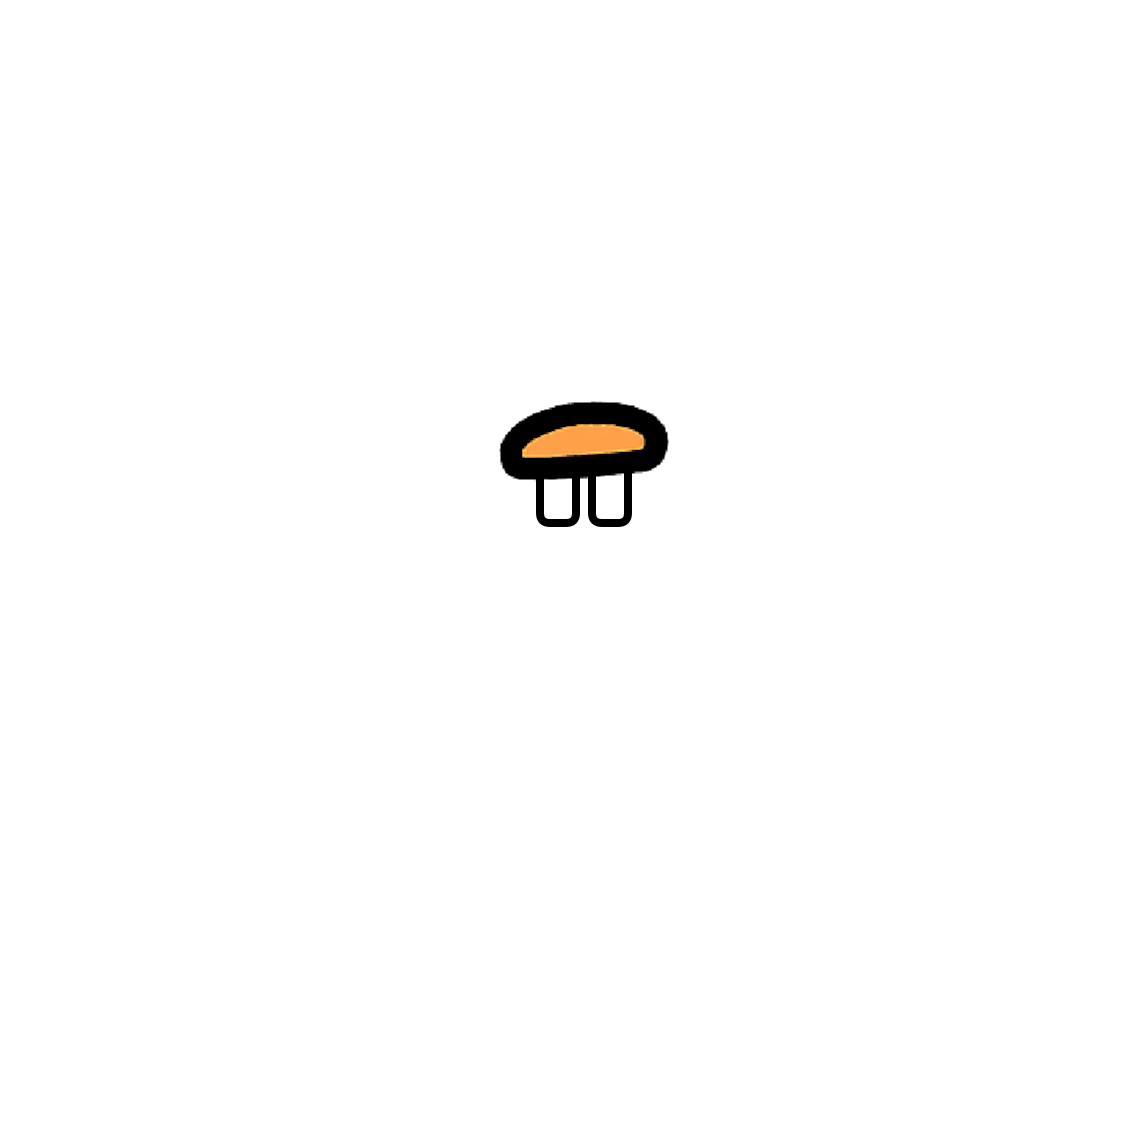
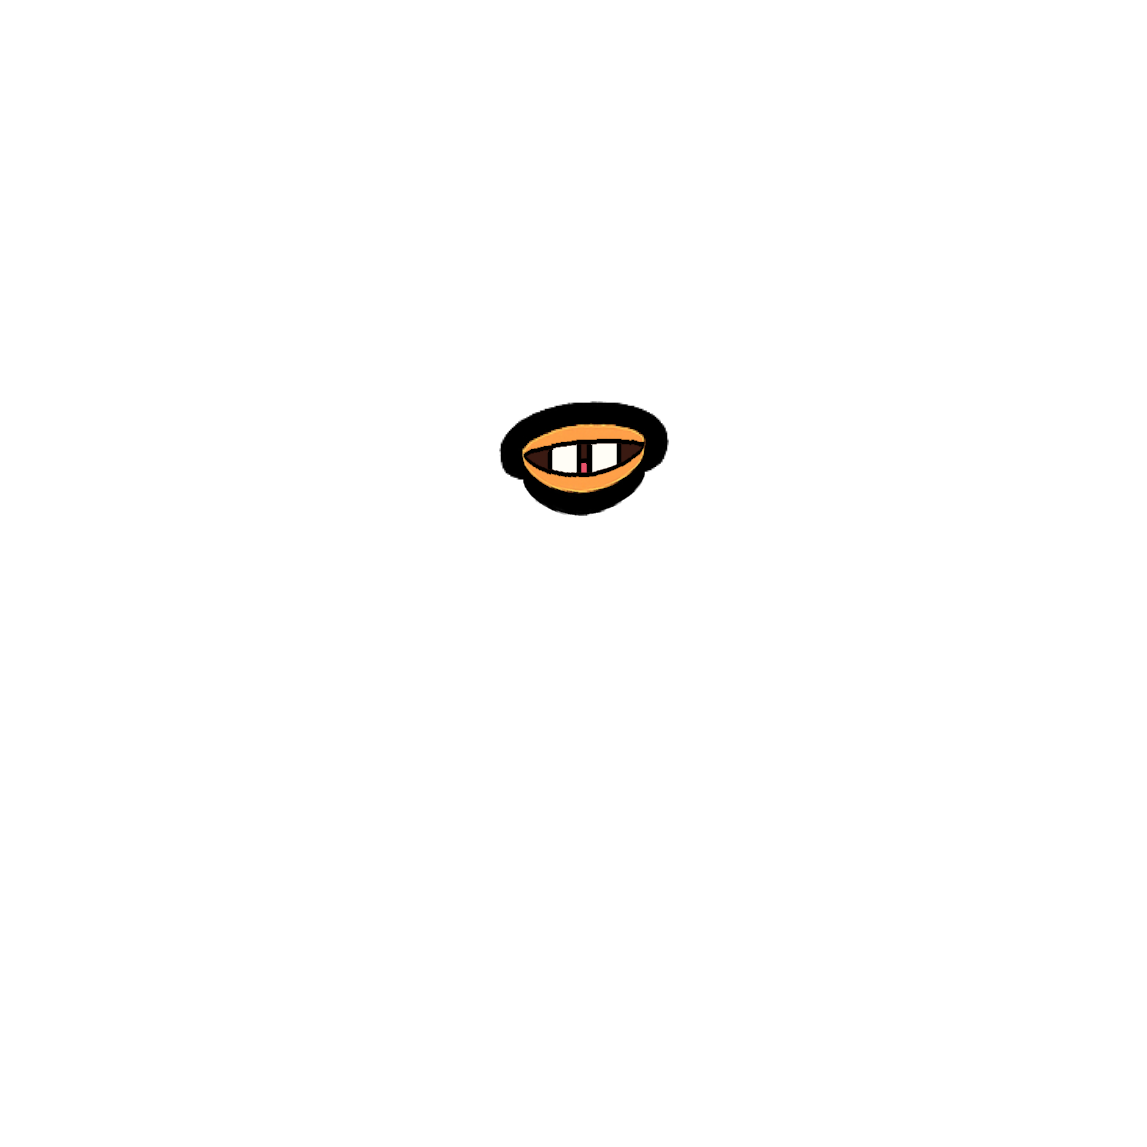
Open the real beak for mouth expressions instead of bolting a jaw under it
The previous set drew an orange lower mandible under the real beak, which
read in the builder as a second beak, and its perfect-vector strokes and
box teeth looked pasted onto the hand-drawn base.

Now the real beak is cut along its orange midline and the lower half slides
down by a smooth per-column profile that closes at the corners; the gap gets
black lip lines and a dark interior, so every outline in the mouth is the
original art. Teeth and tongue are clipped to the interior, drawn parts get
a displacement wobble, and the mustache tucks under the beak as a handlebar.

Checked: eye clearance 18.4px on all 8 (unchanged, nothing moves above the
beak), generate-index 238, 512 contact sheet next to cigar/joint/lollipop/
whistle, real builder capture of all 8, wrangler render of the image API.

Changed region(s): [[0.4577, 0.3662, 0.5798, 0.4577]]

diff --git a/docs/trait-style-guide.md b/docs/trait-style-guide.md
@@ -91,12 +91,14 @@ example.
 The base has no lips - its mouth is the orange beak, ~53x14px at the 512
 render. Two consequences, both learned by shipping it wrong:
 
-- Never cover or erase the beak to draw a different mouth. An expression is
-  the real beak (flood-filled out of `ping.png`, see
-  `scripts/generate-mouths-from-beak.mjs`) as the upper mandible, plus
-  something added *below* it: a dark interior and orange lower mandible for
-  an open beak, a tongue or bubble emerging from under it, a mustache under
-  it (the beak is also the nose).
+- Never cover or erase the beak to draw a different mouth, and never bolt a
+  drawn lower mandible under it (read as a second beak, rejected twice). An
+  open expression is the real beak (flood-filled out of `ping.png`, see
+  `scripts/generate-mouths-from-beak.mjs`) split along its orange midline,
+  lower half slid down, gap filled with black lip lines and a dark interior.
+  Teeth and tongue go inside that gap; a tongue or bubble can come out of
+  it; a mustache goes under the beak (the beak is also the nose). Anything
+  still drawn gets the displacement wobble so it isn't perfect-vector.
 - Nothing drawn inside the beak's own silhouette survives the render. A
   tooth row, a smile line or a tongue that fits inside 53x14px is a smudge on
   the live site. Make the added shape at least the beak's own size.
